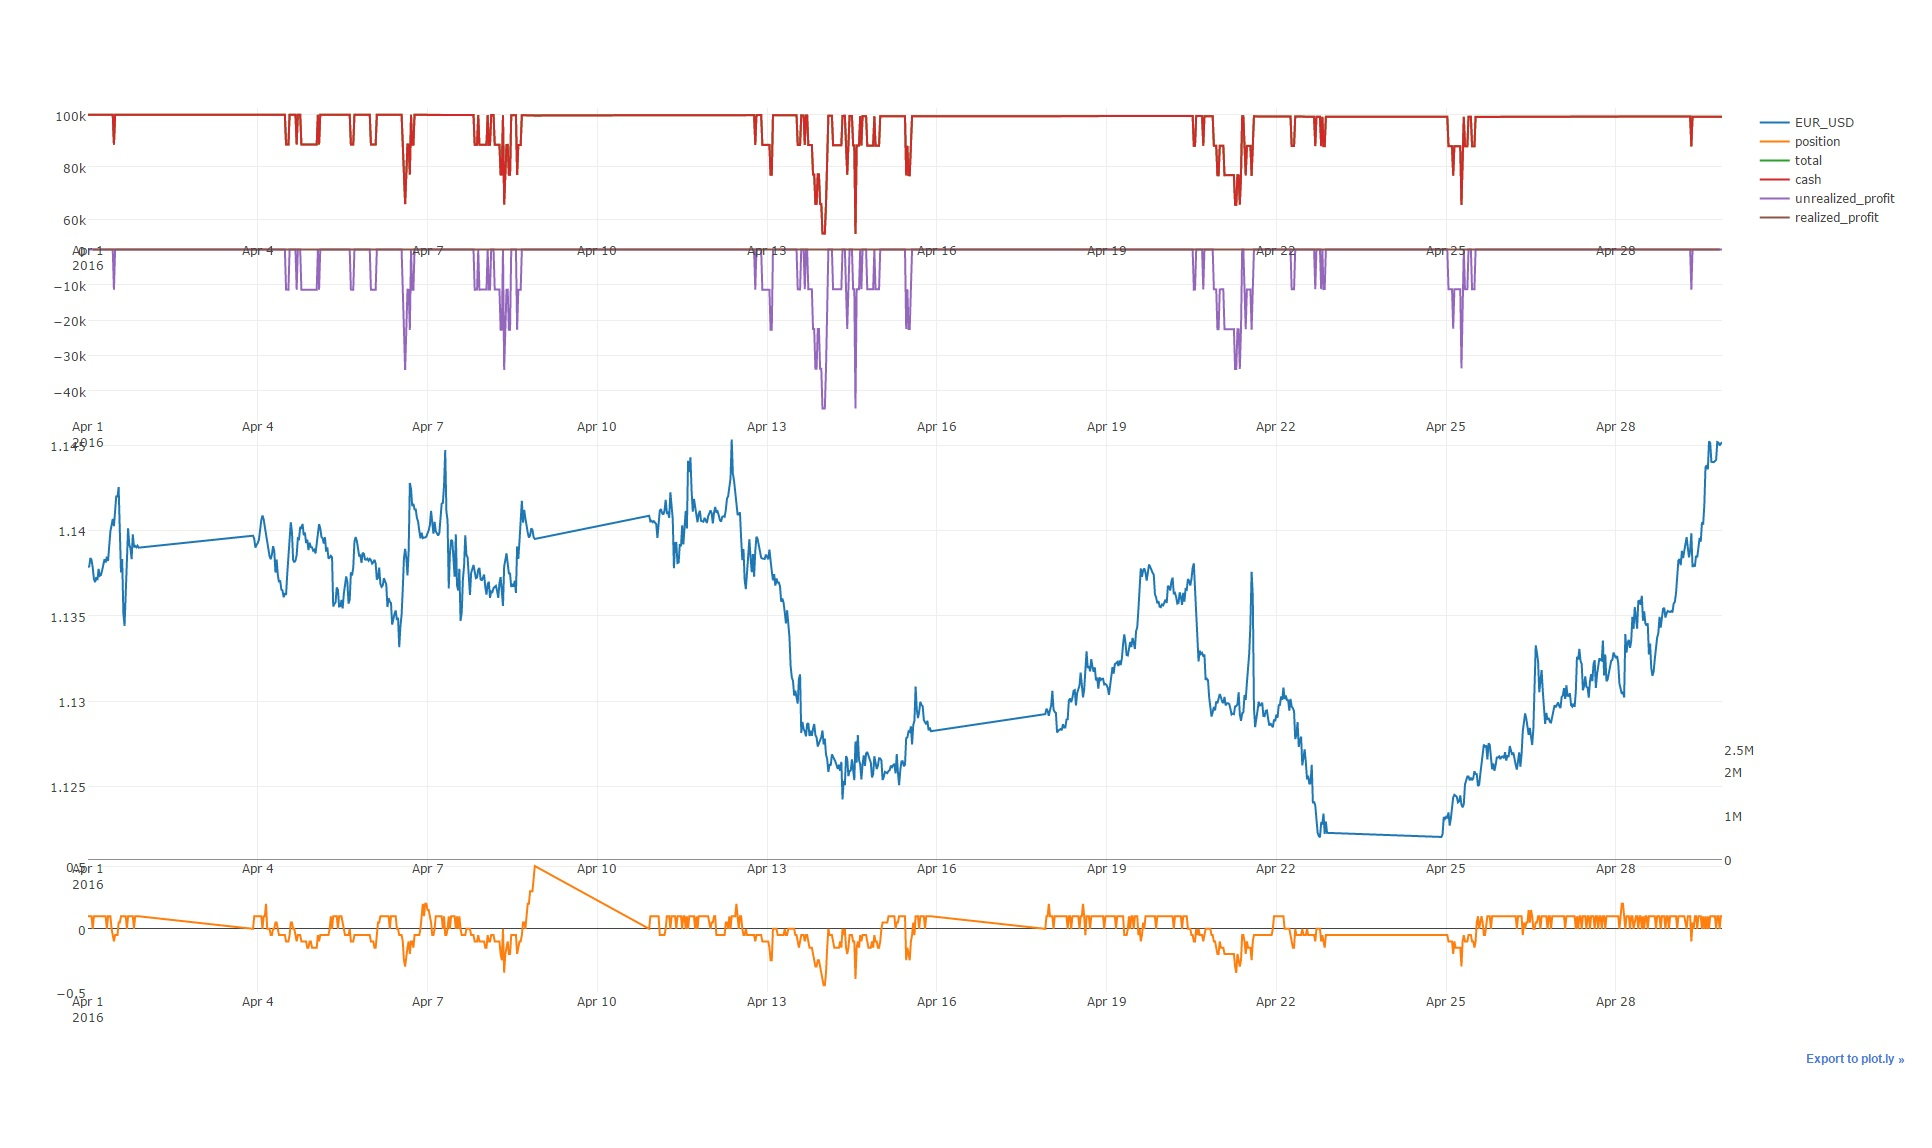
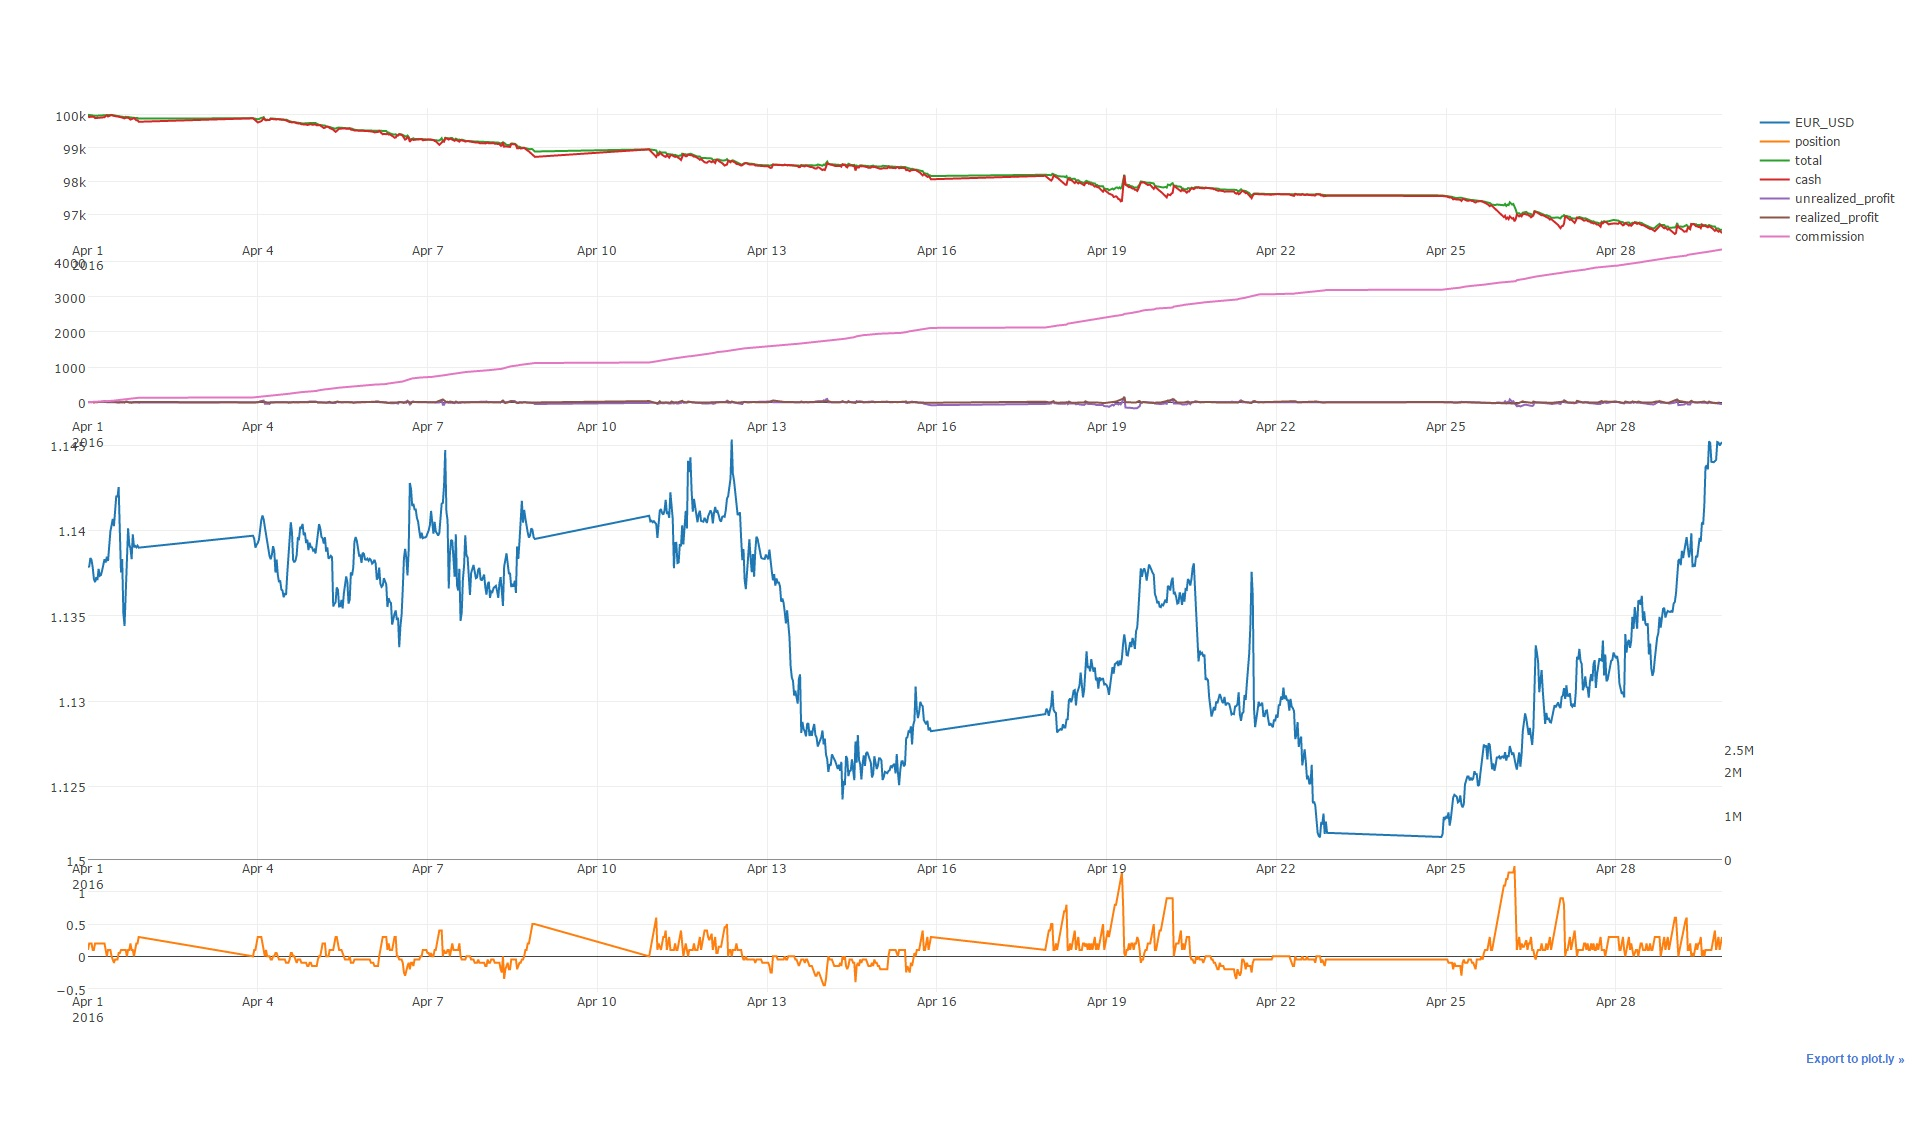
version 1.3.1
- version 1.3.1
 - fix commission computation
 - add commission plot

diff --git a/OnePy/fill.py b/OnePy/fill.py
@@ -17,6 +17,7 @@ class Fill(object):
         self.trade_list = []
         self.completed_list = []
 
+        self.commission_dict = {}   # {instrument : [{date:xx,commission:xx},..,],..}
         self.margin_dict = {}       # {instrument : [{date:xx,margin:xx},..,],..}
         self.position_dict = {}     # {instrument : [{date:xx,position:xx},..,],..}
         self.avg_price_dict = {}    # {instrument : [{date:xx,avg_price:xx},..,],..}
@@ -24,6 +25,7 @@ class Fill(object):
         self.re_profit_dict = {}    # {instrument : [{date:xx,re_profit:xx},..,],..}
         self.cash_list = []         # [{date:xx,cash:xx},..,..]
         self.total_list = []        # [{date:xx,total:xx},..,..]
+
 
 
     def run_first(self,feed_list):
@@ -37,6 +39,7 @@ class Fill(object):
             self.avg_price_dict[instrument]=[{'date':date,'avg_price':0}]
             self.unre_profit_dict[instrument]=[{'date':date,'unre_profit':0}]
             self.re_profit_dict[instrument]=[{'date':date,'re_profit':0}]
+            self.commission_dict[instrument]=[{'date':date,'commission':0}]
         self.cash_list = [{'date':date,'cash':self.initial_cash}]
         self.total_list = [{'date':date,'total':self.initial_cash}]
 
@@ -58,6 +61,7 @@ class Fill(object):
                 raise SyntaxError
 
         self.position_dict[f.instrument].append(d)
+
 
     def _update_margin(self,fillevent,cur_bar_dict):
         """计算margin要用到最新position数据，所以在update_position之后"""
@@ -130,19 +134,6 @@ class Fill(object):
         lpod = self.position_dict[f.instrument][-2]['position']   # last_position_dict
         cpod = self.position_dict[f.instrument][-1]['position']   # cur_position_dict
 
-        if f.target is 'Forex': f.commtype = 'FIX'
-        elif f.target is 'Stock': f.commtype = 'PCT'
-        elif f.target is 'Futures': pass
-
-        if f.commtype is 'FIX':
-            if f.target is 'Forex': comm = f.commission/self._mult
-            elif f.target is 'Futures': comm = f.commission
-            exe_price = f.price + comm*f.direction
-
-        elif f.commtype is 'PCT':
-            comm = 1.0 + f.commission*f.direction     # 交易费为市值的百分比
-            exe_price = f.price*comm
-
         if cpod == 0:
             d['avg_price'] = 0
             self.avg_price_dict[f.instrument].append(d)
@@ -151,29 +142,29 @@ class Fill(object):
 
                 if lpod == 0:
                     if f.signal_type is 'Buy':
-                        d['avg_price'] = exe_price
+                        d['avg_price'] = f.price
                     elif f.signal_type is 'Sell':
-                        d['avg_price'] = exe_price
+                        d['avg_price'] = f.price
 
                 elif lpod > 0:
                     if f.signal_type is 'Buy':
-                        d['avg_price'] = (lpod*lapd + f.size*exe_price)/cpod
+                        d['avg_price'] = (lpod*lapd + f.size*f.price)/cpod
 
                     elif f.signal_type is 'Sell':
                         if cpod > 0:
-                            d['avg_price'] = (lpod*lapd - f.size*exe_price)/cpod
+                            d['avg_price'] = (lpod*lapd - f.size*f.price)/cpod
 
                         elif cpod < 0:
-                            d['avg_price'] = exe_price
+                            d['avg_price'] = f.price
 
                 elif lpod < 0:
                     if f.signal_type is 'Buy':
                         if cpod > 0:
-                            d['avg_price'] = exe_price
+                            d['avg_price'] = f.price
                         elif cpod < 0:
-                            d['avg_price'] = (-lpod*lapd - f.size*exe_price)/cpod
+                            d['avg_price'] = (-lpod*lapd - f.size*f.price)/cpod
                     elif f.signal_type is 'Sell':
-                        d['avg_price'] = (-lpod*lapd + f.size*exe_price)/cpod
+                        d['avg_price'] = (-lpod*lapd + f.size*f.price)/cpod
 
                 d['avg_price'] = abs(d['avg_price'])
 
@@ -183,7 +174,7 @@ class Fill(object):
                 d['avg_price'] = lapd
                 self.avg_price_dict[f.instrument].append(d)
 
-    def _update_profit(self,fillevent,cur_bar_dict):
+    def _update_unre_profit(self,fillevent,cur_bar_dict):
         """
         用到最新position数据，所以在update_position之后
         运用最新平均价格进行计算, 所以在update_avg_price之后
@@ -214,6 +205,28 @@ class Fill(object):
 
         self.unre_profit_dict[f.instrument].append(d)
 
+
+    def _update_commission(self,fillevent):
+        f = fillevent
+        d = dict(date = f.date)
+        lcod = self.commission_dict[f.instrument][-1]['commission'] # last_commission_dict
+
+        if f.target is 'Forex': f.commtype = 'FIX'
+        elif f.target is 'Stock': f.commtype = 'PCT'
+        elif f.target is 'Futures': pass
+
+        if f.commtype is 'FIX':
+            if f.target is 'Forex': comm = f.commission/self._mult
+            elif f.target is 'Futures': comm = f.commission
+            d['commission'] = lcod + f.size*comm*self._mult
+
+        elif f.commtype is 'PCT':
+            comm = f.commission*self._mult     # 交易费为市值的百分比 !!!
+            d['commission'] = lcod + f.size*f.price*comm
+
+        self.commission_dict[f.instrument].append(d)
+
+
     def _update_total(self,fillevent):
         """用到最新profit数据，所以在update_profit之后"""
         f = fillevent
@@ -223,10 +236,11 @@ class Fill(object):
         t_profit = t_re_profit + cur_unre_profit['unre_profit']
         t_profit_high = t_re_profit + cur_unre_profit['unre_profit_high']
         t_profit_low = t_re_profit + cur_unre_profit['unre_profit_low']
+        t_commission = self.commission_dict[f.instrument][-1]['commission']
 
-        d['total'] = self.initial_cash + t_profit
-        d['total_high'] = self.initial_cash + t_profit_high
-        d['total_low'] = self.initial_cash + t_profit_low
+        d['total'] = self.initial_cash + t_profit - t_commission
+        d['total_high'] = self.initial_cash + t_profit_high - t_commission
+        d['total_low'] = self.initial_cash + t_profit_low - t_commission
         self.total_list.append(d)
 
 
@@ -261,9 +275,11 @@ class Fill(object):
             self.margin_dict[fillevent.instrument].pop(-2)
 
         self._update_avg_price(fillevent)
-        self._update_profit(fillevent,cur_bar_dict)
+        self._update_unre_profit(fillevent,cur_bar_dict)
+        self._update_commission(fillevent)
         self._update_total(fillevent)
         self._update_cash(fillevent)
+
 
         # 删除重复
         # 第一笔交易会删除update_timeindex产生的初始化信息
@@ -271,6 +287,7 @@ class Fill(object):
         self.position_dict[fillevent.instrument].pop(-2)
         self.avg_price_dict[fillevent.instrument].pop(-2)
         self.unre_profit_dict[fillevent.instrument].pop(-2)
+        self.commission_dict[fillevent.instrument].pop(-2)
         self.cash_list.pop(-2)
         self.total_list.pop(-2)
 
@@ -318,6 +335,9 @@ class Fill(object):
             avg_price = self.avg_price_dict[f.instrument][-1]['avg_price']
             self.avg_price_dict[f.instrument].append({'date':date,'avg_price':avg_price})
 
+            #更新手续费
+            commission = self.commission_dict[f.instrument][-1]['commission']
+            self.commission_dict[f.instrument].append({'date':date,'commission':commission})
 
             #更新利润
             if avg_price == 0:
@@ -337,9 +357,9 @@ class Fill(object):
 
         #更新total
         t_re_profit = sum([i['re_profit'] for i in fy.cat(self.re_profit_dict.values())])
-        total = self.initial_cash + t_re_profit + unre_profit        # 初始资金和总利润
-        total_high = self.initial_cash + t_re_profit + unre_profit_high
-        total_low = self.initial_cash + t_re_profit + unre_profit_low
+        total = self.initial_cash + t_re_profit + unre_profit - commission        # 初始资金和总利润
+        total_high = self.initial_cash + t_re_profit + unre_profit_high - commission
+        total_low = self.initial_cash + t_re_profit + unre_profit_low - commission
         total_dict = dict(date=date,
                            total = total,
                            total_high = total_high,
@@ -388,28 +408,14 @@ class Fill(object):
         cur_position = self.position_dict[f.instrument][-1]['position']
         ls_list = ['TakeProfitOrder','StopLossOrder','TralingStopLossOrder']
         def get_re_profit(trade_size):
-            if f.target is 'Forex': f.commtype = 'FIX'
-            elif f.target is 'Stock': f.commtype = 'PCT'
-            elif f.target is 'Futures': pass
 
-            if f.commtype is 'FIX':
-                if f.target is 'Futures':
-                    comm = f.commission
-                else:
-                    comm = f.commission/self._mult
-                exe_price = f.price + comm*f.direction
-
-                d = dict(date = f.date)
-                d['re_profit'] = (exe_price - i.price)*trade_size*self._mult * i.direction
-                self.re_profit_dict[f.instrument].append(d)
-
-            elif f.commtype is 'PCT':
-                comm = 1.0 + f.commission*f.direction
-                exe_price = f.price*comm
-
-                d = dict(date = f.date)
-                d['re_profit'] = (exe_price-i.price)*trade_size * i.direction*self._mult
-                self.re_profit_dict[f.instrument].append(d)
+            d = dict(date = f.date)
+            d['re_profit'] = (f.price - i.price)*trade_size*self._mult * i.direction
+            self.re_profit_dict[f.instrument].append(d)
+            last = self.re_profit_dict[f.instrument][-2]
+            if last['date'] is d['date']:
+                self.re_profit_dict[f.instrument][-1]['re_profit'] += last['re_profit']
+                self.re_profit_dict[f.instrument].pop(-2)
 
         if f.target in ['Forex','Futures','Stock']:
             # 检查是否来源于触发了止盈止损的单

diff --git a/OnePy/statistics.py b/OnePy/statistics.py
@@ -77,13 +77,6 @@ def create_trade_log(completed_list,target,commtype,mult):
     tlog_list = []
     for i in completed_list:
         f = i[1]
-        if commtype is 'FIX':
-            if target is 'Futures':
-                comm = f.commission
-            else:
-                comm = f.commission/mult
-        elif commtype is 'PCT':
-                comm = 1.0 + f.commission*f.direction
 
         d = {}
         d['entry_date'] = i[0].date
@@ -94,18 +87,26 @@ def create_trade_log(completed_list,target,commtype,mult):
         d['exit_price'] = i[1].price
         d['pl_points'] = i[1].price - i[0].price
         d['execute_type'] = i[1].executetype
+        d['re_profit'] =  (f.price-i[0].price) * d['size'] * mult * i[0].direction
+
         if commtype is 'FIX':
-            exe_price = f.price + comm*f.direction
-            d['re_profit'] =  (exe_price-i[0].price) * d['size'] * mult * i[0].direction
+            if target is 'Futures':
+                comm = f.commission
+            else:
+                comm = f.commission/mult
+            d['commission'] = f.size*comm*mult*2
+
         elif commtype is 'PCT':
-            exe_price = f.price*comm
-            d['re_profit'] =  (exe_price-i[0].price) * d['size'] * mult * i[0].direction
+            comm = f.commission*mult
+            d['commission'] = f.size*comm*f.price*2
+
         tlog_list.append(d)
 
     df = pd.DataFrame(tlog_list)
-    df['cumul_total'] = df[['re_profit']].cumsum()
+    df['cumul_total'] = (df['re_profit'] - df['commission']).cumsum()
     return df[['entry_date','entry_price','signal_type','size','exit_date',
-             'exit_price','execute_type','pl_points','re_profit','cumul_total']]
+               'exit_price','execute_type','pl_points','re_profit',
+               'commission','cumul_total']]
 
 
 

diff --git a/OnePy/plotter.py b/OnePy/plotter.py
@@ -85,6 +85,7 @@ class plotly(plotBase):
         self.positions_df = self._to_df(fill.position_dict,instrument)
         self.re_profit_df = self.deal_re_profit(fill.re_profit_dict,instrument)
         self.unre_profit_df = self._to_df(fill.unre_profit_dict,instrument)
+        self.commission_df = self._to_df(fill.commission_dict,instrument)
         self.data = []
         self.updatemenus = []
 
@@ -145,11 +146,17 @@ class plotly(plotBase):
                                    xaxis='x4',yaxis='y4',
                                    name='unrealized_profit')
 
+            p_commission = go.Scatter(x=self.commission_df.index,
+                                   y=self.commission_df.commission,
+                                   xaxis='x4',yaxis='y4',
+                                   name='commission')
+
             self.data.append(p_position)
             self.data.append(p_total)
             self.data.append(p_cash)
             self.data.append(p_unre_profit)
             self.data.append(p_re_profit)
+            self.data.append(p_commission)
 
             layout = go.Layout(
                 xaxis2=dict(

diff --git a/OnePy/OnePy.py b/OnePy/OnePy.py
@@ -42,8 +42,9 @@ class OnePiece(object):
             except queue.Empty:
 
                 Feed.load_all_feed(self.feed_list)
-                self.fill.update_timeindex(self.feed_list)
-                self._check_pending_order()
+                if not self._check_finish_backtest(self.feed_list):    # 防止回测结束后又重复更新
+                    self.fill.update_timeindex(self.feed_list)
+                    self._check_pending_order()
 
             else:
                 if event.type is 'Market':

diff --git a/setup.py b/setup.py
@@ -29,7 +29,7 @@ class CleanCommand(Command):
 
 setup(
     name='OnePy_trader',
-    version="1.2.1",
+    version="1.3.1",
     author='Chandler Chan',
     author_email='chenjiayicjy@126.com',
     license='MIT',

diff --git a/change_log.md b/change_log.md
@@ -1,6 +1,12 @@
 Onepy  
 ===========
 
+##### 2017.8.6
+  - version 1.3.1
+  - fix commission computation
+  - add commission plot
+
+
 ##### 2017.8.5
   - version 1.2.1
   - fix trailingstop
